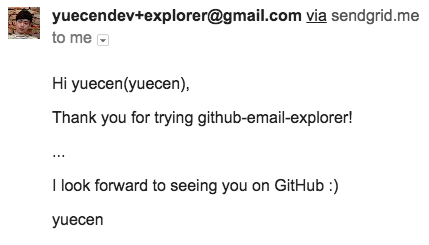
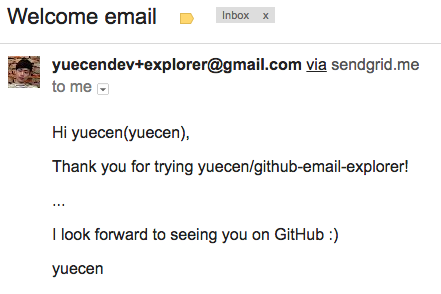
Add repo parameter for template rendering

diff --git a/github_email_explorer/cli_sendgrid.py b/github_email_explorer/cli_sendgrid.py
@@ -1,12 +1,18 @@
 # -*- coding: utf-8 -*-
 
 import argparse
+from collections import namedtuple
+
 import re
 
 import github_email
 from email_handler import send_sendgrid_by_ges
 from email_handler import send_sendgrid_by_email_list
 from email_handler import get_email_template
+
+
+def record_args(name, d):
+    return namedtuple(name, d.keys())(**d)
 
 
 class SendGridCliArgs(object):
@@ -16,8 +22,8 @@ class SendGridCliArgs(object):
         p.add_argument('--template_path', help='Your email template')
         p.add_argument('--subject', required=True, help='Subject of email')
         p.add_argument('--from_email', required=True, help='Address form')
-        p.add_argument('--repo', help='Repo on Github, type "<account>/<repo>"')
-        p.add_argument('--action_type', default='star', nargs='+', help='"star", "fork" and "watch" are the only three options now')
+        p.add_argument('--repo', help='Repo on Github, type "<owner>/<repo>"')
+        p.add_argument('--action_type', default=['star'], nargs='+', help='"star", "fork" and "watch" are the only three options now')
         p.add_argument('--client_id', help='Github OAuth client ID')
         p.add_argument('--client_secret', help='Github OAuth client secret')
         p.add_argument('--list', help='Email list')
@@ -31,7 +37,7 @@ class SendGridCliArgs(object):
             tmp = re.split('/', self.repo)
             assert len(tmp) == 2, "repo format is not correct"
 
-            self.repo_user, self.repo_name = tmp[0], tmp[1]
+            self.repo = record_args('repo', {'owner': tmp[0], 'name': tmp[1]})
 
         self.action_type = args.action_type
         self.list = args.list
@@ -51,28 +57,29 @@ def send_email_by_sendgrid():
     """
     sendgrid_cli_args = SendGridCliArgs()
 
-    if sendgrid_cli_args.repo:
-
-        # explore users email by action types
-        github_api_auth = (sendgrid_cli_args.client_id, sendgrid_cli_args.client_secret)
-        ges = github_email.collect_email_info(sendgrid_cli_args.repo_user, sendgrid_cli_args.repo_name, sendgrid_cli_args.action_type, github_api_auth)
-        print 'Total: {}/{}'.format(len([ge for ge in ges if ge.email]), len(ges))
-
-        # read email content from file
-        email_template = get_email_template(sendgrid_cli_args.template_path)
-
-        # send email by py-sendgrid
-        send_sendgrid_by_ges(github_user_emails=ges,
-                             sendgrid_api_key=sendgrid_cli_args.api_key,
-                             email_template=email_template, from_email=sendgrid_cli_args.from_email,
-                             subject=sendgrid_cli_args.subject)
-
+    # TODO: sendgrid_cli_args.list need to have higher priority than sendgrid_cli_args.repo
     if sendgrid_cli_args.list:
         email_template = get_email_template(sendgrid_cli_args.template_path)
         send_sendgrid_by_email_list(email_list=sendgrid_cli_args.list,
                                     sendgrid_api_key=sendgrid_cli_args.api_key,
                                     email_template=email_template, from_email=sendgrid_cli_args.from_email,
                                     subject=sendgrid_cli_args.subject)
+
+    if sendgrid_cli_args.repo:
+        # explore users email by action types
+        github_api_auth = (sendgrid_cli_args.client_id, sendgrid_cli_args.client_secret)
+        ges = github_email.collect_email_info(sendgrid_cli_args.repo.owner, sendgrid_cli_args.repo.name, sendgrid_cli_args.action_type, github_api_auth)
+        print 'Total: {}/{}'.format(len([ge for ge in ges if ge.email]), len(ges))
+
+        # read email content from file
+        email_template = get_email_template(sendgrid_cli_args.template_path)
+        email_template.repo = sendgrid_cli_args.repo
+
+        # send email by py-sendgrid
+        send_sendgrid_by_ges(github_user_emails=ges,
+                             sendgrid_api_key=sendgrid_cli_args.api_key,
+                             email_template=email_template, from_email=sendgrid_cli_args.from_email,
+                             subject=sendgrid_cli_args.subject)
 
 
 if __name__ == '__main__':

diff --git a/github_email_explorer/cli_explore.py b/github_email_explorer/cli_explore.py
@@ -1,5 +1,5 @@
 # -*- coding: utf-8 -*-
-
+from collections import namedtuple
 from datetime import datetime
 from tabulate import tabulate
 import argparse
@@ -8,11 +8,15 @@ import re
 import github_email
 
 
+def record_args(name, d):
+    return namedtuple(name, d.keys())(**d)
+
+
 class ExploreCliArgs(object):
     def __init__(self):
         p = argparse.ArgumentParser(prog='ge-explore')
-        p.add_argument('--repo', help='Repo on Github, type "<account>/<repo>"')
-        p.add_argument('--action_type', default='star', nargs='+', help='"star", "fork" and "watch" are the only three options now')
+        p.add_argument('--repo', help='Repo on Github, type "<owner>/<repo>"')
+        p.add_argument('--action_type', default=['star'], nargs='+', help='"star", "fork" and "watch" are the only three options now')
         p.add_argument('--client_id', help='Github OAuth client ID')
         p.add_argument('--client_secret', help='Github OAuth client secret')
         p.add_argument('--status', action='store_true', help='Github API status')
@@ -20,13 +24,11 @@ class ExploreCliArgs(object):
         args = p.parse_args()
 
         self.repo = args.repo
-        self.repo_user = None
-        self.repo_name = None
         if self.repo:
             tmp = re.split('/', self.repo)
             assert len(tmp) == 2, "repo format is not correct"
 
-            self.repo_user, self.repo_name = tmp[0], tmp[1]
+            self.repo = record_args('repo', {'owner': tmp[0], 'name': tmp[1]})
 
         self.action_type = args.action_type
         self.client_id = args.client_id if args.client_id else ''
@@ -51,7 +53,7 @@ def get_github_email_by_repo():
         return
 
     # handle action_type
-    ges = github_email.collect_email_info(explore_cli_args.repo_user, explore_cli_args.repo_name, explore_cli_args.action_type, github_api_auth)
+    ges = github_email.collect_email_info(explore_cli_args.repo.owner, explore_cli_args.repo.name, explore_cli_args.action_type, github_api_auth)
     print 'Total: {}/{}'.format(len([ge for ge in ges if ge.email]), len(ges))
     print github_email.format_email(ges)
 

diff --git a/github_email_explorer/email_handler.py b/github_email_explorer/email_handler.py
@@ -63,9 +63,28 @@ def send_sendgrid(sendgrid_api_key=None, email_template=None, github_user_emails
 
 
 def get_email_template(path):
-    return template_env.get_template(path)
+    return GitHubEmailTemplate(path)
+
+
+class GitHubEmailTemplate(object):
+    def __init__(self, template_path):
+        self.template_path = template_path
+        self._email_template = template_env.get_template(template_path)
+
+        self.repo = None
+
+    def render(self, **kwargs):
+        return self._email_template.render(kwargs, repo=self.repo)
 
 
 if __name__ == '__main__':
-    # print parse_email('test John+github@example.org')
-    send_sendgrid_by_email_list(' <John@example.org>; Peter James <James@example.org>;')
+    # send_sendgrid_by_email_list(' <John@example.org>; Peter James <James@example.org>;')
+
+    def record_args(name, d):
+        from collections import namedtuple
+        return namedtuple(name, d.keys())(**d)
+
+    gt = GitHubEmailTemplate('../examples/marketing_email.txt')
+    gt.repo = record_args('repo', {'owner': 'yuecen', 'name': 'github-email-explorer'})
+    ge = GithubUserEmail(('test', 'test@example.com'))
+    print gt.render(github_user=ge)

diff --git a/github_email_explorer/__init__.py b/github_email_explorer/__init__.py
@@ -1,1 +1,1 @@
-__version__ = '0.1.3'
+__version__ = '0.1.4'

diff --git a/README.md b/README.md
@@ -17,56 +17,20 @@ There are two main abilities, exploring email and sending email, in
 github-email-explorer that the concreted commends are ```ge-explore``` and ```ge-sendgrid```. 
 SendGrid is only one email provider at current progress.
 
-```
-$ ge-explore -h
-usage: ge-explore [-h] [--repo REPO] [--action_type ACTION_TYPE]
-                  [--client_id CLIENT_ID] [--client_secret CLIENT_SECRET]
-                  [--status]
-
-optional arguments:
-  -h, --help                      show this help message and exit
-  --repo REPO                     Repo on Github, type "<account>/<repo>"
-  --action_type ACTION_TYPE       "star", "fork" and "watch" are the only three options now
-  --client_id CLIENT_ID           Github OAuth client ID
-  --client_secret CLIENT_SECRET   Github OAuth client secret
-  --status                        Github API status
-```
-
-```
-$ ge-sendgrid -h
-usage: ge-sendgrid [-h] [--api_key API_KEY] [--template_path TEMPLATE_PATH]
-                   --subject SUBJECT --from_email FROM_EMAIL [--repo REPO]
-                   [--action_type ACTION_TYPE [ACTION_TYPE ...]]
-                   [--client_id CLIENT_ID] [--client_secret CLIENT_SECRET]
-                   [--list LIST]
-
-optional arguments:
-  -h, --help                                  show this help message and exit
-  --api_key API_KEY                           Your KEY of SendGrid API
-  --template_path TEMPLATE_PATH               Your email template
-  --subject SUBJECT                           Subject of email
-  --from_email FROM_EMAIL                     Address form
-  --repo REPO                                 Repo on Github, type "<account>/<repo>"
-  --action_type ACTION_TYPE [ACTION_TYPE ...] "star", "fork" and "watch" are the only three options now
-  --client_id CLIENT_ID                       Github OAuth client ID
-  --client_secret CLIENT_SECRET               Github OAuth client secret
-  --list LIST                                 Email list
-```
-
-#### Example of Getting Email List of Stargazers
+#### Example of Getting Email Addresses from Stargazers, Forks or Watchers
 
 The GitHub users can do some activities such as starring, watching, or forking 
 on repositories. Email address can be extracted from those activities.
 
 ##### Using Command
-You can get user email by ```ge-explore``` with ```<user_account>/<repo_name>```. For example, 
+You can get user email by ```ge-explore``` with ```<owner>/<repo>```. For example, 
 
 ```bash
-// default value of action_type is 'star'
-$ ge-explore --repo yuecen/github-email-explorer --action_type star
 
-// The email list will be responded in a formatted string, 
+$ ge-explore --repo yuecen/github-email-explorer --action_type star fork watch
+ 
 John <John@example.org>; Peter James <James@example.org>;
+// The email addresses are responded in a formatted string.
 ```
 
 You can copy contact list to any email service you have, then send your email 
@@ -115,7 +79,7 @@ Here is an example to use following syntax, the file saved to ```examples/market
 
 ```
 <p>Hi {{ github_user.name }}({{ github_user.g_id }}),</p>
-<p>Thank you for trying github-email-explorer!</p>
+<p>Thank you for trying {{ repo.owner }}/{{ repo.name }}!</p>
 
 <p>...</p>
 
@@ -123,7 +87,7 @@ Here is an example to use following syntax, the file saved to ```examples/market
 <p>yuecen</p>
 ```
 
-```{{ to_name }}``` is the syntax to assign value in runtime stage for client name.
+```{{ ... }}``` is the syntax to assign value in runtime stage for email content.
 
 ##### 2. Send Email
 
@@ -135,7 +99,7 @@ ge-sendgrid --api_user <your_sendgrid_api_user_name>
             --api_key <your_sendgrid_api_key> 
             --template_path <github-email-explorer_folder_path>/examples/marketing_email.txt
             --from_email test@example.com
-            --repo <user_account>/<repo_name>
+            --repo <owner>/<repo>
             --list "John <John@example.org>; Peter James <James@example.org>"
 ```
 
@@ -173,6 +137,44 @@ Resource Type      Limit    Remaining  Reset Time
 ---------------  -------  -----------  --------------------
 Core                5000         5000  2016-07-06T07:59:47Z
 Search                30           30  2016-07-06T07:00:47Z
+```
+
+#### Command Usage
+
+```
+$ ge-explore -h
+usage: ge-explore [-h] [--repo REPO] [--action_type ACTION_TYPE]
+                  [--client_id CLIENT_ID] [--client_secret CLIENT_SECRET]
+                  [--status]
+
+optional arguments:
+  -h, --help                      show this help message and exit
+  --repo REPO                     Repo on Github, type "<owner>/<repo>"
+  --action_type ACTION_TYPE       "star", "fork" and "watch" are the only three options now
+  --client_id CLIENT_ID           Github OAuth client ID
+  --client_secret CLIENT_SECRET   Github OAuth client secret
+  --status                        Github API status
+```
+
+```
+$ ge-sendgrid -h
+usage: ge-sendgrid [-h] [--api_key API_KEY] [--template_path TEMPLATE_PATH]
+                   --subject SUBJECT --from_email FROM_EMAIL [--repo REPO]
+                   [--action_type ACTION_TYPE [ACTION_TYPE ...]]
+                   [--client_id CLIENT_ID] [--client_secret CLIENT_SECRET]
+                   [--list LIST]
+
+optional arguments:
+  -h, --help                                  show this help message and exit
+  --api_key API_KEY                           Your KEY of SendGrid API
+  --template_path TEMPLATE_PATH               Your email template
+  --subject SUBJECT                           Subject of email
+  --from_email FROM_EMAIL                     Address form
+  --repo REPO                                 Repo on Github, type "<owner>/<repo>"
+  --action_type ACTION_TYPE [ACTION_TYPE ...] "star", "fork" and "watch" are the only three options now
+  --client_id CLIENT_ID                       Github OAuth client ID
+  --client_secret CLIENT_SECRET               Github OAuth client secret
+  --list LIST                                 Email list
 ```
 
 [rate limit]:https://developer.github.com/v3/rate_limit/
